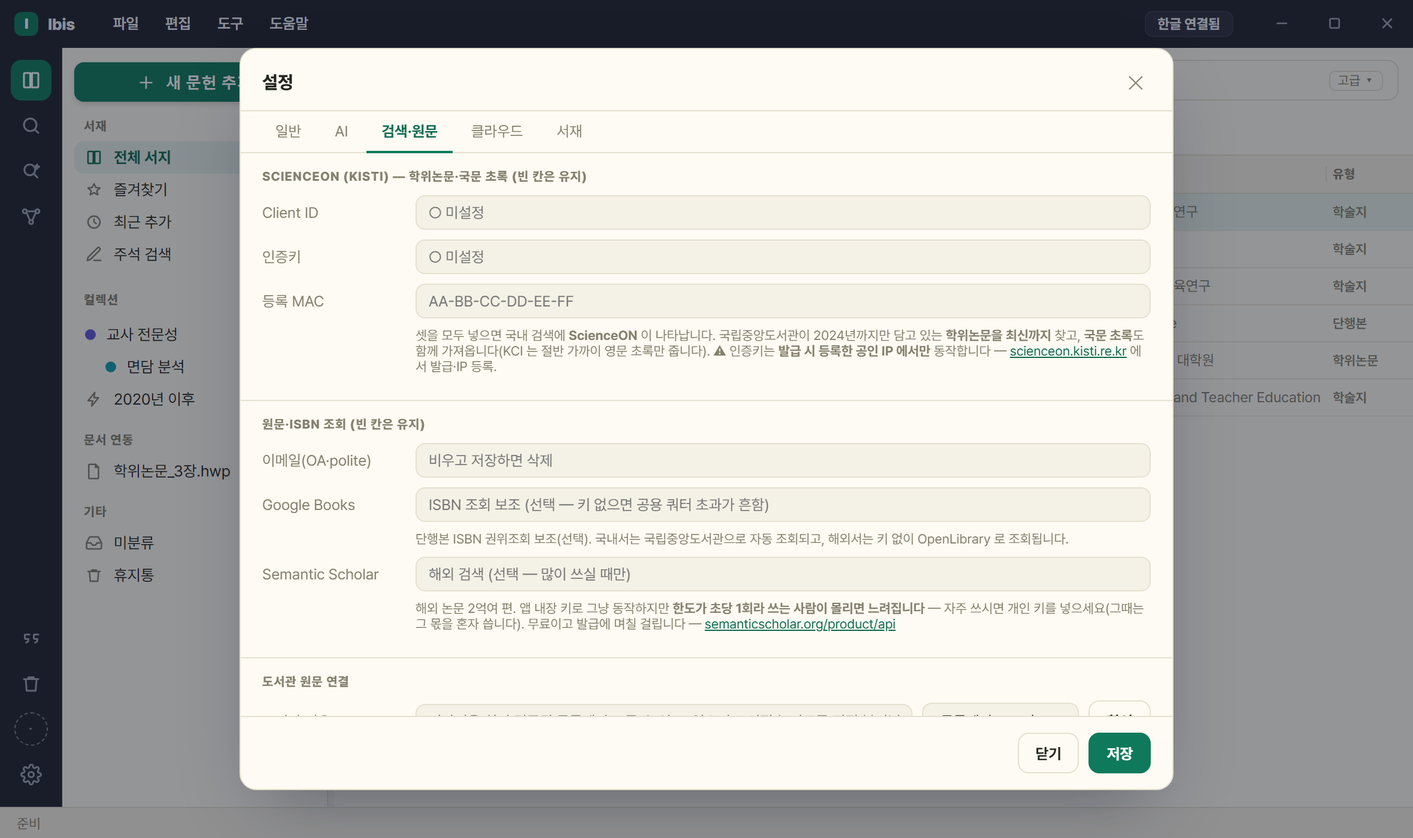
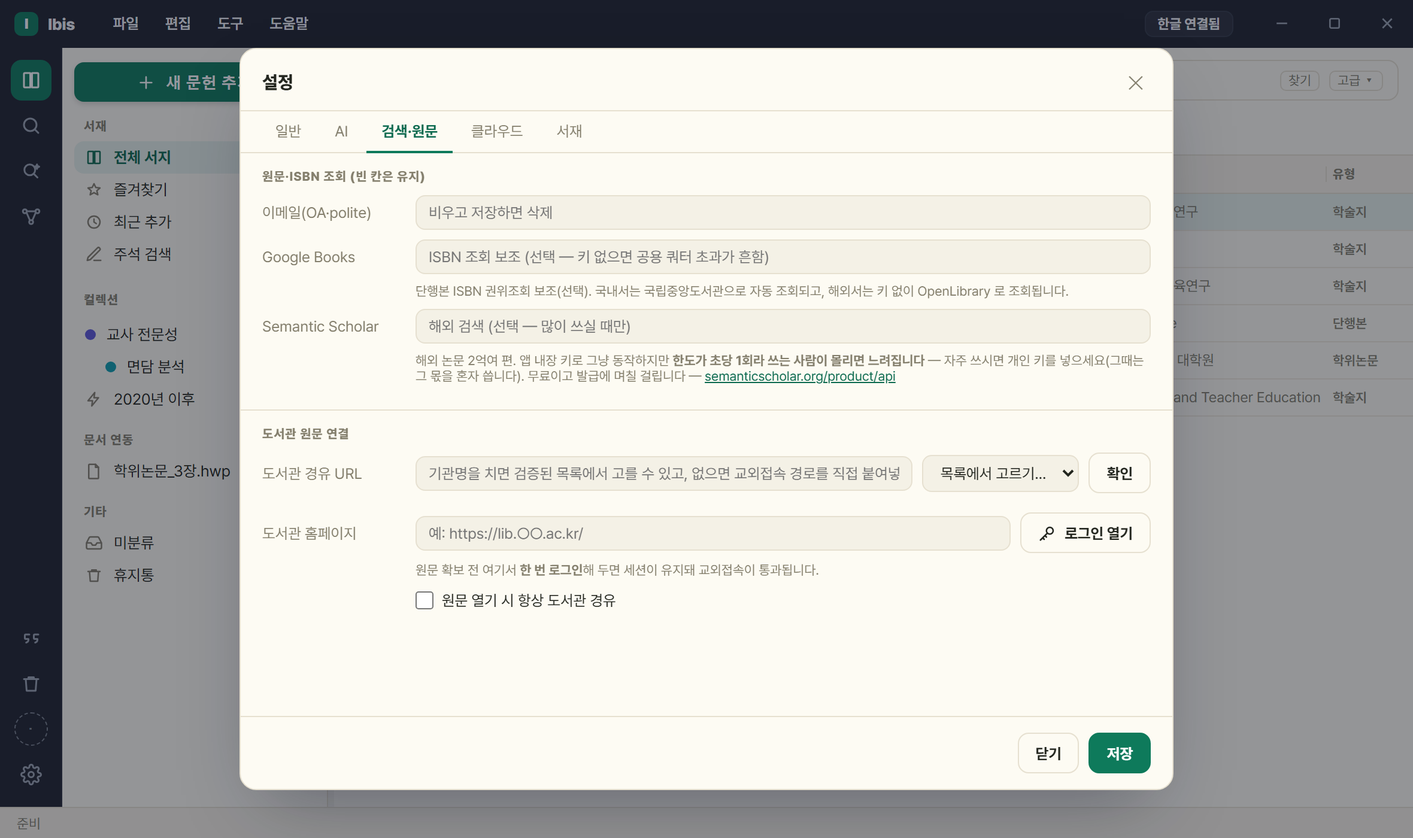
docs: 2026.9.11 반영(9.9·9.10·9.11 세 판) — 법·정책 검색 · 학술 DB 키 전면 내장 · AI 유형별 프로필
- **키를 전부 내장했습니다**(9.9) — ScienceON 인증키 세 값을 넣던 9.1 절·FAQ 항목·온보딩·설정 탭 표를 모두 고쳤다.
  "인증키는 등록 IP 에 묶인다" 는 실측으로 반증됐다. 남은 선택 칸은 이메일·Google Books·Semantic Scholar 셋.
- **법·정책 자료 검색**(9.9) — 체크 행 셋째 묶음(법령·판례·정책자료·법률안·회의록), 학술 DB 와 상호배타,
  칸 하나가 한 인용 갈래, 관련도순만. 3.2 소스 표에 두 행 추가 + FAQ 항목 신설. 고급검색 유형에 법령·조례.
- **DB 실패를 화면이 알림**(9.9) — 체크 행 ⚠ + 안내줄에 남는다(종전에는 상태줄에서 다음 동작에 덮였다).
- **질문으로 찾기**: '내 서재' 칸 복귀·기본 꺼짐(9.10) · **법·정책 다섯 갈래 제외**(9.11, 법률안이 상위 독식).
  두 찾기의 차이 서술을 "같은 자리·같은 방식, 목록은 다름" 으로 다시 씀.
- **AI 가 서지 유형을 봅니다**(9.11) — 8.1 에 프로필 6종 표(실증 논문·저술·보고서·법령·판례·회의록).
- FAQ 신설: 상세 버튼이 흐린 이유(9.10 판정) · 법령 원문 PDF 는 되고 판례·국회도서관은 안 되는 이유(9.11).
- 릴리스와 무관한 정정: 첫 FAQ 항목이 CWYW 로 타 제품과 비교하고 있던 것을 걷고, 남다른 자리(국내 DB 를
  앱 안에서 직접)를 첫 줄로 올렸다(2026-09-08 사용자 검토).
- 캡처 17장 재생성 — 체크 행의 법·정책 묶음, 질문 쪽 '내 서재' 칸, 설정에서 사라진 ScienceON 칸.

diff --git a/docs/USAGE.md b/docs/USAGE.md
@@ -1,6 +1,6 @@
 # Ibis 사용 설명서
 
-한국어로 연구하는 사람을 위한 **문헌 관리 앱**. **찾기 → 원문 확보 → 읽기·AI 분석 → 정리·태그 그래프 → 동료와 나누기** 까지 한 프로그램 안에서 합니다. 아래아한글·Word 본문 인용(CWYW)도 그중 한 기능입니다. 기준 버전 **2026.9.8**.
+한국어로 연구하는 사람을 위한 **문헌 관리 앱**. **찾기 → 원문 확보 → 읽기·AI 분석 → 정리·태그 그래프 → 동료와 나누기** 까지 한 프로그램 안에서 합니다. 아래아한글·Word 본문 인용(CWYW)도 그중 한 기능입니다. 기준 버전 **2026.9.11**.
 
 - 표기: `⚙설정` · `파일`·`편집`·`도구` 메뉴 · `새 문헌 추가` 는 화면의 실제 라벨입니다.
 - 좌측 세로 아이콘 줄 = **레일**, 상단의 '○○ 모드 · 문서명' = **상태 배지**.
@@ -121,7 +121,9 @@
 ![질문으로 찾기 — 문장으로 물으면 관련도 순위로 돌려준다](images/ask.png)
 
 1. 질의를 문장으로 적습니다 — 예: `국내 교육사회학 연구에서 교육불평등을 어떻게 다뤄 왔나`.
-2. 찾기 줄 아래 **체크 행**에서 어디서 찾을지 고릅니다: `전체` │ **국내**(KCI·ScienceON·국립중앙도서관) │ **국외**(OpenAlex·Crossref·ERIC·arXiv·PubMed). 행 오른쪽 끝에 **예상 크레딧**(`+2~7` 처럼)이 적힙니다.
+2. 찾기 줄 아래 **체크 행**에서 어디서 찾을지 고릅니다: `전체` │ **내 서재** │ **국내**(KCI·ScienceON·국립중앙도서관) │ **국외**(OpenAlex·Crossref·ERIC·arXiv·PubMed). 행 오른쪽 끝에 **예상 크레딧**(`+2~7` 처럼)이 적힙니다.
+   - **내 서재 칸은 기본이 꺼짐**입니다(2026.9.10) — 꺼져 있으면 DB 에서만 찾고, 그중 이미 담아 둔 것에는 **[보관됨]** 배지가 붙습니다. 켜면 서재 문헌도 후보로 순위에 함께 듭니다.
+   - **법·정책 다섯 갈래는 여기에 없습니다**(2026.9.11) — [3.2](#32-검색-소스) 의 키워드로 찾기에서만 씁니다. 법률안의 제안이유는 수백 자인데 회의록은 안건 한 줄이라 채점 재료의 길이가 달라 법률안이 상위를 독식했습니다. 그 문제를 풀기 전까지 뺐습니다.
 3. 진행이 단계로 보입니다 — `검색어 만들기 → DB에서 찾기 → 관련도 매기기 → 정리`(지금 단계가 점멸).
 
 - **검색어는 AI 가 만듭니다** — 국문·영문 조합을 한 번에 짭니다. 낱말을 뽑는 규칙으로 하면 국문 질의에서 엉뚱한 것이 걸립니다.
@@ -138,18 +140,22 @@
 
 > 낱말로 좁혀 찾는 것은 **키워드로 찾기**([3.2](#32-검색-소스))입니다. 질문으로 찾기는 *무엇을 찾아야 할지부터 넓게 훑을 때* 씁니다. 둘은 짝입니다 — **낱말로 찾으면 키워드로 찾기, 문장으로 물으면 질문으로 찾기**.
 >
-> 두 찾기는 **같은 자리(찾기 줄 아래)에서 같은 방식**으로 DB 를 고릅니다 — `전체 │ 국내 … │ 국외 …`, '국내'·'국외' 글자를 누르면 묶음이 통째로 켜지고 꺼지며 조합은 자유입니다. 다만 **목록과 기억은 다릅니다**: 키워드로 찾기는 9개(S2 포함)를 `localStorage` 에 기억하고 기본 꺼짐이 arXiv·PubMed·S2, 질문으로 찾기는 8개(**S2 없음** — 질의 라우팅이 그 DB 를 쓰지 않습니다)에 기억은 그 판 한정, 기본 꺼짐이 arXiv·PubMed 입니다. '내 서재' 칸은 양쪽 다 없습니다.
+> 두 찾기는 **같은 자리(찾기 줄 아래)에서 같은 방식**으로 DB 를 고릅니다 — 묶음 이름을 누르면 그 묶음이 통째로 켜지고 꺼지며 조합은 자유입니다. 다만 **목록은 다릅니다**: 키워드로 찾기에는 **법·정책 다섯 갈래**와 S2 가 있고, 질문으로 찾기에는 **내 서재** 칸이 있습니다(기본 꺼짐 — 켜면 서재 문헌도 순위에 함께 듭니다). 고른 조합은 키워드 쪽만 기억됩니다.
 
 ### 3.2 검색 소스
 
-레일 **두 번째 아이콘 [키워드로 찾기]** 입니다. 어디서 찾을지는 **찾기 줄 바로 아래 체크 행**에서 고릅니다 — `전체 │ 국내 KCI·ScienceON·국중도 │ 국외 OpenAlex·Crossref·ERIC·arXiv·PubMed·S2`(arXiv·PubMed·S2 는 주제 범위가 좁아 **기본 꺼짐**). **'국내'·'국외' 글자를 누르면 그 묶음이 통째로 켜지고 꺼지며**, 원하는 대로 섞어도 됩니다(KCI+ERIC 만 같은 조합도 가능). 고른 조합은 기억되고, 행 오른쪽 끝에 `○○에서 찾기` 라고 지금 조합이 적힙니다(고른 것이 없으면 'DB 를 하나 이상 고르세요').
+레일 **두 번째 아이콘 [키워드로 찾기]** 입니다. 어디서 찾을지는 **찾기 줄 바로 아래 체크 행**에서 고릅니다 — `전체 │ 국내 KCI·ScienceON·국중도 │ 국외 OpenAlex·Crossref·ERIC·arXiv·PubMed·S2 │ 법·정책 법령·판례·정책자료·법률안·회의록`(arXiv·PubMed·S2 와 법·정책 다섯은 **기본 꺼짐**). **'국내'·'국외' 글자를 누르면 그 묶음이 통째로 켜지고 꺼지며**, 원하는 대로 섞어도 됩니다(KCI+ERIC 만 같은 조합도 가능). 고른 조합은 기억되고, 행 오른쪽 끝에 `○○에서 찾기` 라고 지금 조합이 적힙니다(고른 것이 없으면 'DB 를 하나 이상 고르세요').
 
-소스는 **국내 3종 · 해외 6종** 이며, 둘 이상을 켜면 병렬로 질의한 뒤 중복을 합칩니다.
+소스는 **국내 3종 · 해외 6종 · 법·정책 5갈래** 이며, 둘 이상을 켜면 병렬로 질의한 뒤 중복을 합칩니다.
+
+> **법·정책을 켜면 학술 DB 는 함께 찾지 않습니다**(2026.9.9) — 법령 몇 건 사이에 논문 수백 건이 끼면 나눠 찾는 뜻이 없어지기 때문입니다. 학술을 켜면 법·정책이 꺼지고, 그 반대도 같습니다.
+> **법·정책은 칸 하나가 한 인용 갈래**입니다(기관 이름이 아니라 인용할 때 부르는 이름). 담으면 바로 참고문헌 서식이 나옵니다 — `교육부 (2026). 초ㆍ중등교육법. 법률, 제21659호(시행 2026. 8. 20.).`
+> **관련도순만 고를 수 있습니다** — 두 API 다 정렬 인자를 받지 않아, 다른 축을 내놓으면 '정렬했는데 안 바뀐다' 가 됩니다.
 
 | 묶음 | 소스 | 커버리지 | 키 |
 |---|---|---|---|
 | 국내 | **KCI** | 국내 학술논문 | **불필요(앱 내장)** |
-| 국내 | **ScienceON** | 국내 학술·학위논문(KISTI) | 필요(3개 값·선택) |
+| 국내 | **ScienceON** | 국내 학술·학위논문(KISTI) | **불필요(앱 내장)** |
 | 국내 | **국립중앙도서관** | 학위논문·도서·연속간행물·웹자료 등 국내 발행물 | **불필요(앱 내장)** |
 | 해외 | OpenAlex | 국제+국내 상당수 | 불필요 |
 | 해외 | Crossref | 국제+국내 상당수 | 불필요 |
@@ -157,10 +163,13 @@
 | 해외 | arXiv | 프리프린트 | 불필요 |
 | 해외 | Semantic Scholar(S2) | CS·융합 | 불필요 |
 | 해외 | **PubMed** (2026.9.5) | 의학·보건·간호(미국 국립의학도서관) — 초록·MeSH 주제어 포함, 총건수 표시. 주제 범위가 좁아 **해외 통합·질문으로 찾기에서는 기본 꺼짐** | 불필요 |
-| — | 내 서지 | 보관한 문헌 — 체크 항목이 아닙니다(2026.9.7~9.8 에 두 찾기 모두에서 빠졌습니다). 내 문헌은 **서재 모드의 찾기 줄**에서 찾고([3.8](#38-내-서지-전문검색fts)), 찾은 결과가 이미 서재에 있으면 행에 **'보관됨'** 배지가 붙습니다 | — |
+| 법·정책 | **법령** · **판례** | 법제처 국가법령정보 — 현행법령·자치법규, 대법원·하급심 판례 | **불필요(앱 내장)** |
+| 법·정책 | **정책자료** · **법률안** · **회의록** | 국회도서관 — 공공기관 정책자료(회색문헌), 국회 의안, 국회 회의록 | **불필요(앱 내장)** |
+| — | 내 서지 | 보관한 문헌 — 키워드로 찾기의 체크 항목은 아닙니다. **서재 모드의 찾기 줄**에서 찾고([3.8](#38-내-서지-전문검색fts)), 질문으로 찾기에는 '내 서재' 칸이 있습니다([3.1](#31-질문으로-찾기-202691)). 찾은 결과가 이미 서재에 있으면 행에 **'보관됨'** 배지가 붙습니다 | — |
 
 - **KCI 와 국립중앙도서관은 앱 내장 키로 동작합니다** — 사용자가 발급받을 것이 없고 설정에 입력 칸도 없으며, 설치 직후부터 소스 목록에 보입니다.
-- **ScienceON 만** 사용자 발급 키(Client ID·인증키·등록 MAC)가 필요합니다([9.1](#91-api-키이메일-발급)). 없어도 나머지 소스로 앱은 온전히 동작합니다.
+- **모든 학술 DB 와 법·정책이 앱 내장 키로 동작합니다**(2026.9.9) — **발급받을 것이 하나도 없습니다.** ScienceON 인증키 세 값을 넣던 칸도 없앴습니다. 오래 적혀 있던 "인증키는 발급받은 공인 IP 에 묶인다" 는 실측으로 반증됐습니다(등록 IP 가 아닌 두 망에서 정상 동작).
+- **DB 가 실패하면 화면이 말합니다**(2026.9.9) — 체크 행의 그 칸에 **⚠** 가 붙고(툴팁에 사유), 안내줄에 "이 DB 의 결과는 빠져 있습니다. 0건이어도 자료가 없다는 뜻이 아닙니다" 가 **남습니다**. 종전에는 상태줄에 한 번 스치고 다음 동작에 덮여, 한 소스가 죽어도 나머지 행이 그려지니 화면은 정상으로 보였습니다. 경고는 그 DB 를 다시 불러 성공했을 때만 지워지고, 체크를 자동으로 끄지는 않습니다.
 - 학술논문은 KCI 가, 그 밖의 국내 발행물은 국립중앙도서관이 맡습니다. 유형을 지정하지 않은 국립중앙도서관 검색은 소장자료 네 갈래를 병렬로 훑습니다.
 - RISS 는 검색 소스가 아니라 **원문 확보 경로 전용**입니다([7절](#7-원문-확보pdf-뷰어)).
 - 찾기: **체크 행에서 DB 고르기 → 낱말 입력 → Enter** → 페이지당 20건. 체크를 바꾸면 목록이 새 조합으로 바뀌고, 실제 검색은 Enter 로 합니다(질문으로 찾기와 같은 결).
@@ -224,7 +233,7 @@ DOI 가 논문의 권위 키라면 단행본은 **ISBN** 입니다. 학술 DB(KC
 
 **전역 한정자**(행이 아니라 질의 전체에 걸립니다)
 
-- **유형(공통)** · 정렬 · 발행년 범위. (어느 DB 에서 찾을지는 고급 검색 안이 아니라 **검색줄 아래 체크 행**입니다.)
+- **유형(공통)** · 정렬 · 발행년 범위. 유형에 **법령·조례**가 있습니다(2026.9.9 — 담기고 인용도 되는데 고를 수가 없었습니다). (어느 DB 에서 찾을지는 고급 검색 안이 아니라 **찾기 줄 아래 체크 행**입니다.)
 - 유형 값: 전체 · 학술논문 · 학위논문 · 단행본 · 보고서 · 연속간행물 · 웹자료 · 비도서(소스마다 고를 수 있는 값이 다릅니다).
 - `자료구분`(국립중앙도서관 전용)은 서버로 그대로 보내는 **자료 종별 13종**(일반도서·학위논문·정부간행물·공공간행물·아동도서·교과서·학습참고서·한장본·점자도서·장애인대체자료·비도서·연속간행물·온라인자료)이며 '유형(공통)' 과는 다릅니다.
 - ⚠ **'단행본'·'보고서' 유형은 그 갈래의 일부만 찾습니다** — 국립중앙도서관 자료구분은 한 번에 하나만 보낼 수 있어 대표 코드 하나로 묻습니다(단행본=일반도서만, 보고서=정부간행물만). 앱이 이 사실을 결과줄에 매번 밝힙니다.
@@ -788,7 +797,20 @@ Ibis 없이 쓰던 원고에도 쓸 수 있습니다. 본문의 `(홍길동, 202
 
 ### 8.1 AI 문헌 요약
 
-첨부 PDF 본문을 읽어 한국어 요약(연구질문·방법·핵심결과·시사점/한계) + 태그 + 키워드를 생성합니다.
+첨부 PDF 본문을 읽어 한국어 요약 + 태그 + 키워드를 생성합니다.
+
+**무엇을 뽑을지는 서지 유형에 따라 다릅니다 (2026.9.11)** — 종전에는 셋 다 실증 학술논문 하나만 전제해, 법령 PDF 에 표본 수를 묻고 판결에 방법론 타당성을 물었습니다. 이제 여섯 갈래로 갈립니다.
+
+| 유형 | 뽑는 것 |
+|---|---|
+| 실증 논문 | 연구질문·방법·핵심결과·시사점/한계 (종전 그대로) |
+| 저술·논설 | 핵심 주장·논증 구조·반론 |
+| 정책·연구 보고서 | 정책 문제·근거 자료·제안·이해관계 |
+| 법령·법률안 | 목적·적용 대상·주요 조문·부칙 — 근거는 **조문 번호**로 |
+| 판례·해석례 | 사실관계·쟁점·판단·법리 (비판적 검토는 평석 관점) |
+| 회의록 | 안건·발언·쟁점·결정 |
+
+상세 패널의 AI 버튼에 마우스를 올리면 **그 문헌에서 무엇을 뽑을지** 미리 말합니다('AI 법령 노트 — 목적·적용 대상·주요 조문·개정 연혁'). 태그를 뽑는 면도 유형마다 다릅니다(법령은 규율 주제·대상·기관).
 
 ![AI 리서치 노트](images/ai-note.png)
 
@@ -879,7 +901,7 @@ Ibis 없이 쓰던 원고에도 쓸 수 있습니다. 본문의 `(홍길동, 202
 |---|---|
 | **일반** | 문서 연결([2절](#2-한글word-문서-연결)) · 인용 스타일([5절](#5-참고문헌인용-스타일)) · 표시(테마·글꼴·항상 위 — [9.7](#97-테마--글꼴--항상-위-고정)) |
 | **AI** | 제공자·모델·추론 강도·폴백 + **일괄 작업 동시 실행**([8.4](#84-ai-제공자모델폴백)) |
-| **검색·원문** | ScienceON 인증키·이메일([9.1](#91-api-키이메일-발급)) · 도서관 원문([9.4](#94-도서관-교외접속프록시-경유-설정)) |
+| **검색·원문** | 이메일·선택 키([9.1](#91-api-키이메일-발급)) · 도서관 원문([9.4](#94-도서관-교외접속프록시-경유-설정)) |
 | **클라우드** | 구글 로그인 · 공유 중인 컬렉션 목록 · 서버 사용량([6.10](#610-컬렉션-공유)) |
 | **서재** | 서재 위치·백업·업데이트 확인([9.6](#96-서재-위치클라우드-폴더-동기화)) |
 
@@ -889,27 +911,26 @@ Ibis 없이 쓰던 원고에도 쓸 수 있습니다. 본문의 `(홍길동, 202
 
 ### 9.1 API 키·이메일 발급
 
-*(⚙설정 › 검색·원문 탭. **KCI·국립중앙도서관은 앱 내장 키로 동작해 입력 칸이 없습니다** — 아래가 남은 전부입니다.)*
+*(⚙설정 › 검색·원문 탭. **학술 DB 와 법·정책은 모두 앱 내장 키로 동작해 입력 칸이 없습니다**(2026.9.9) — 아래가 남은 전부이고, 셋 다 **선택**입니다.)*
 
-![설정 — 검색·원문 탭(학술 DB 키·ISBN 조회·도서관 경유)](images/settings-api.png)
+![설정 — 검색·원문 탭(이메일·선택 키·도서관 경유)](images/settings-api.png)
 
 | 항목 | 발급처 · 절차 | 입력 칸 | 문의 |
 |---|---|---|---|
-| **ScienceON** | `scienceon.kisti.re.kr` 로그인 → 인증키 발급 신청 → **Client ID·인증키·등록 MAC 3개** | `Client ID` · `인증키` · `등록 MAC` | helpdesk@kisti.re.kr · 080-969-4114 |
+| **Semantic Scholar** | 발급 선택 — `semanticscholar.org/product/api` (무료, 며칠 걸림) | `Semantic Scholar` | — |
 | **이메일(OA·polite)** | 발급 아님. 본인 이메일(Unpaywall + Crossref/OpenAlex polite pool) | `이메일(OA·polite)` | — |
 | **Google Books** | 발급 선택 — Google Cloud 콘솔의 Books API 키(단행본 ISBN 조회 보조) | `Google Books` | — |
 | **도서관 원문 연결** | 발급 아님. 기관 프록시·도서관 홈 주소([9.4](#94-도서관-교외접속프록시-경유-설정)) | `도서관 경유 URL` · `도서관 홈페이지` + `로그인 열기` · 체크박스 `원문 열기 시 항상 도서관 경유` | — |
 
-- **ScienceON** — **세 값이 모두** 있어야 동작(등록 MAC 하나만 빠져도 검색 불가). MAC 형식은 `AA-BB-CC-DD-EE-FF`.
-- ⚠ **ScienceON 은 발급 시 등록한 공인 IP 에서만** 동작합니다. 넣지 않아도 앱은 온전히 동작합니다.
+- **Semantic Scholar** — 내장 키로 그냥 동작하지만 그 몫은 **초당 1회를 여럿이 나눠 씁니다**. 자주 쓰면 개인 키를 넣으세요(그때는 그 몫을 혼자 씁니다).
 - **이메일 칸은 예외** — 비우고 저장하면 삭제됩니다. Unpaywall·Crossref 두 값에 같은 주소가 저장됩니다.
 - **Google Books** — 단행본 **ISBN 조회** 보조용(선택, [3.4](#35-isbn으로-단행본-추가)). 키 없이 쓰면 공용 쿼터 초과가 흔해 보조로만 씁니다. ISBN 권위조회 자체는 내장 키로 국립중앙도서관을 씁니다.
-- **키를 하나도 넣지 않아도** KCI·국립중앙도서관·Crossref·OpenAlex·S2·arXiv·ERIC 로 검색됩니다.
+- **키를 하나도 넣지 않아도** 학술 DB 9종과 법·정책 5갈래가 전부 동작합니다. 위 세 칸은 있으면 나은 것이지 없으면 막히는 것이 아닙니다.
 
 ### 9.2 저장된 키 삭제 — '지움'
 
 1. 설정된 키는 `● 설정됨` 으로 표시되고 옆에 **'지움'** 버튼이 나타납니다.
-2. '지움' → **'저장'** → 실제 삭제됩니다. ScienceON 키를 지우면 그 소스가 드롭다운에서 사라집니다(KCI·국립중앙도서관은 내장 키라 그대로 남습니다).
+2. '지움' → **'저장'** → 실제 삭제됩니다. 지워도 검색은 그대로입니다 — 위 세 칸은 전부 선택이고, 학술 DB·법·정책은 내장 키로 동작합니다.
 
 - 환경변수(`SCIENCEON_*`·`UNPAYWALL_EMAIL` 등)로 설정된 값은 외부 구성이라 UI 에서 지워지지 않습니다.
 
@@ -1002,7 +1023,7 @@ Ibis 없이 쓰던 원고에도 쓸 수 있습니다. 본문의 `(홍길동, 202
 
 ### 9.8 온보딩을 건너뛰었다면
 
-- 모든 항목(서재 위치·이메일·AI, 그리고 온보딩에 없는 ScienceON·도서관 경유)은 `⚙설정` 에서 언제든 변경 가능.
+- 모든 항목(서재 위치·이메일·AI, 그리고 온보딩에 없는 도서관 경유)은 `⚙설정` 에서 언제든 변경 가능.
 - 이미 데이터가 있으면 온보딩 창은 다시 뜨지 않습니다.
 
 ### 9.9 도움말 › Ibis 정보 — 버전·저작권·라이선스

diff --git a/docs/FAQ.md b/docs/FAQ.md
@@ -1,10 +1,10 @@
 # Ibis FAQ
 
-한국 연구자를 위한 서지·인용 관리 앱 **Ibis** 자주 묻는 질문. 기준 버전 **2026.9.8**.
+한국 연구자를 위한 서지·인용 관리 앱 **Ibis** 자주 묻는 질문. 기준 버전 **2026.9.11**.
 
 - **국내 학술 검색 → 원문 확보 → AI 분석 → 태그 그래프**까지 한 프로그램에서 끝냅니다.
 - 한글(HWP)·Word 본문 인용 삽입(CWYW)도 그중 한 기능입니다.
-- 검색·서지 관리·인용 삽입은 **설정 없이 바로** 됩니다. ScienceON·AI 만 선택 설정.
+- 검색·서지 관리·인용 삽입은 **설정 없이 바로** 됩니다. 발급받을 API 키가 하나도 없습니다(2026.9.9) — AI 만 선택 설정.
 
 ## 목차
 
@@ -23,10 +23,10 @@
 
 **Q. Ibis 는 다른 서지 관리 도구와 뭐가 다른가요?**
 
-- **국내 학술 DB 를 1급으로 지원** — KCI·ScienceON·국립중앙도서관 검색, 국문/영문 병기 보강.
+- **국내 학술 DB 를 앱 안에서 직접 찾습니다** — KCI·ScienceON·국립중앙도서관을 내보내기 파일을 거치지 않고 바로. 국문/영문 병기도 보강합니다.
 - **원문 확보까지 앱 안에서** — 무료 OA 폭포수 자동 확보, 구독 DB 는 도서관 교외접속 경유로 연결, 학위논문은 RISS→dCollection 자동 추적.
 - **읽고 분석하는 것까지** — 인앱 PDF 뷰어·주석, AI 리서치 노트·비판적 검토, 태그 그래프 뷰.
-- **한글(HWP) 본문 인용** — EndNote·Zotero·Mendeley 에 없는 기능. 다만 여러 기능 중 하나.
+- **아래아한글(HWP) 본문 인용** — 여러 기능 중 하나입니다. 한글이나 Word 를 쓰지 않아도 나머지는 그대로 씁니다.
 - 데이터는 **로컬 우선**이고 CSL-JSON 으로 열려 있어 특정 DB 에 묶이지 않습니다.
 
 **Q. 설치본(setup.exe)과 zip 중 뭘 받나요?**
@@ -73,9 +73,8 @@
 **Q. API 키 없이 쓸 수 있나요?**
 
 - 됩니다. 검색·인용 삽입·서지 관리 모두 키 불필요.
-- **무키 소스**: KCI · 국립중앙도서관 · Crossref · OpenAlex · Semantic Scholar · arXiv · ERIC — 8종 중 7종.
-- **키 필요**: ScienceON 하나뿐입니다.
-- KCI·국립중앙도서관은 **앱 내장 키**로 동작해 ⚙설정에 입력 칸 자체가 없습니다.
+- **발급받을 키가 하나도 없습니다**(2026.9.9) — 학술 DB 9종(KCI·ScienceON·국립중앙도서관·OpenAlex·Crossref·ERIC·arXiv·PubMed·S2)과 법·정책 5갈래(법제처·국회도서관)가 전부 **앱 내장 키**로 동작하고 ⚙설정에 입력 칸이 없습니다.
+- 선택 칸 셋만 남았습니다 — 이메일(OA·polite) · Google Books · Semantic Scholar 개인 키. 없어도 다 됩니다.
 
 **Q. 데이터와 API 키는 어디에 저장되나요? 클라우드에 올라가나요?**
 
@@ -226,7 +225,9 @@
 **Q. 무엇을 찾아야 할지부터 막막할 때는요? (2026.9.1)**
 
 - 레일 **세 번째 아이콘 [질문으로 찾기]** — 낱말이 아니라 **연구 질의를 문장으로** 던지면 국내외 DB 와 내 서재를 한 번에 뒤져 **관련도 순위**로 보여 줍니다.
-- 찾기 줄 아래 **체크 행**에서 어디서 찾을지 고릅니다: `전체` │ 국내(KCI·ScienceON·국립중앙도서관) │ 국외(OpenAlex·Crossref·ERIC·arXiv·PubMed). 행 오른쪽 끝에 예상 크레딧이 적힙니다.
+- 찾기 줄 아래 **체크 행**에서 어디서 찾을지 고릅니다: `전체` │ **내 서재** │ 국내(KCI·ScienceON·국립중앙도서관) │ 국외(OpenAlex·Crossref·ERIC·arXiv·PubMed). 행 오른쪽 끝에 예상 크레딧이 적힙니다.
+- **내 서재 칸은 기본 꺼짐**(2026.9.10) — 꺼져 있으면 DB 에서만 찾고 이미 담은 것에는 [보관됨] 배지가 붙습니다. 켜면 서재 문헌도 순위에 함께 듭니다.
+- **법·정책 다섯 갈래는 여기 없습니다**(2026.9.11) — 키워드로 찾기에서만 씁니다.
 - 결과는 **키워드로 찾기와 같은 표**에 나옵니다(2026.9.8) — 맨 왼쪽 관련도 칸(순위·막대·점수)만 질문으로 찾기에서 더 보입니다.
 - **검색어는 AI 가 국문·영문 조합으로 만들고**, 모은 것(통상 200여 건)을 **전부 채점**해 100여 편을 보여 줍니다.
 - 국립중앙도서관 **단행본도 순위에 오릅니다** — 책소개가 없으면 카카오 책·알라딘에서 입혀 채점합니다.
@@ -244,15 +245,16 @@
 
 **Q. 두 찾기의 DB 목록이 서로 다릅니다.**
 
-- 맞습니다. 두 찾기는 **같은 자리(찾기 줄 아래)에서 같은 방식**으로 DB 를 고릅니다 — `전체 │ 국내 … │ 국외 …`, '국내'·'국외' 글자를 누르면 묶음이 통째로 켜지고 꺼지며 조합은 자유입니다. 다만 **목록과 기억은 다릅니다**: 키워드로 찾기는 9개(S2 포함)를 `localStorage` 에 기억하고 기본 꺼짐이 arXiv·PubMed·S2, 질문으로 찾기는 8개(**S2 없음** — 질의 라우팅이 그 DB 를 쓰지 않습니다)에 기억은 그 판 한정, 기본 꺼짐이 arXiv·PubMed 입니다. '내 서재' 칸은 양쪽 다 없습니다.
+- 맞습니다. 두 찾기는 **같은 자리(찾기 줄 아래)에서 같은 방식**으로 DB 를 고릅니다 — 묶음 이름을 누르면 그 묶음이 통째로 켜지고 꺼지며 조합은 자유입니다. 다만 **목록은 다릅니다**: 키워드로 찾기에는 **법·정책 다섯 갈래**와 S2 가 있고, 질문으로 찾기에는 **내 서재** 칸이 있습니다(기본 꺼짐 — 켜면 서재 문헌도 순위에 함께 듭니다). 고른 조합은 키워드 쪽만 기억됩니다.
 
 **Q. 어떤 검색 소스를 쓸 수 있나요?**
 
-- **9종** — 국내: KCI · ScienceON · 국립중앙도서관 / 해외: OpenAlex · Crossref · ERIC · arXiv · Semantic Scholar · **PubMed**(2026.9.5).
+- 학술 **9종** — 국내: KCI · ScienceON · 국립중앙도서관 / 해외: OpenAlex · Crossref · ERIC · arXiv · Semantic Scholar · **PubMed**(2026.9.5).
+- 여기에 **법·정책 5갈래**(2026.9.9) — 법령 · 판례 · 정책자료 · 법률안 · 회의록. 위 「법령·판례·정책자료도 찾을 수 있나요」 참고.
 - PubMed 는 미국 국립의학도서관의 의학·보건·간호 DB(초록·MeSH 주제어 포함). 주제 범위가 좁아 **arXiv 처럼 기본 꺼짐**이고 필요할 때 켭니다(S2 도 키워드로 찾기에서 기본 꺼짐).
 - 어디서 찾을지는 **검색줄 아래 체크 행**에서 고릅니다(2026.9.7) — `전체 │ 국내 │ 국외`. '국내'·'국외' 글자를 누르면 묶음이 통째로 켜지고, 원하는 대로 섞어도 됩니다. 둘 이상이면 병렬 질의 후 중복 병합하고, 고른 조합은 기억됩니다.
 - ERIC 은 미국 교육부 IES 가 운영하는 교육학 DB(저널논문·문서/보고서), 키 불필요.
-- ScienceON 을 뺀 8종은 설치 직후부터 바로 보입니다.
+- **전부 설치 직후부터 바로 보입니다** — 발급받을 키가 없습니다(2026.9.9).
 
 **Q. 국립중앙도서관은 어떤 자료를 찾나요?**
 
@@ -261,12 +263,13 @@
 - 학위논문은 **최신까지** 나옵니다(소장자료 색인 기반). 정렬을 안 골라도 최신부터 보여 줍니다.
 - ⚠ **'단행본'·'보고서' 유형은 그 갈래의 일부만** 찾습니다 — 자료구분을 한 번에 하나만 보낼 수 있어 단행본=일반도서만, 보고서=정부간행물만 조회됩니다(아동도서·교과서·공공간행물 등은 빠짐). 앱이 결과줄에 매번 밝힙니다.
 
-**Q. ScienceON 이 DB 목록에 안 보여요.**
+**Q. 법령·판례·정책자료도 찾을 수 있나요? (2026.9.9)**
 
-- ScienceON 만 사용자 인증키가 필요해, 설정돼 있을 때만 표시됩니다.
-- scienceon.kisti.re.kr › 인증키 발급 신청 → **Client ID·인증키·등록 MAC 3개 모두** 입력(하나라도 빠지면 비활성). (helpdesk@kisti.re.kr · 080-969-4114)
-- ⚠ 발급 시 **등록한 공인 IP 에서만** 동작합니다 — 다른 네트워크로 옮기면 실패합니다.
-- 없어도 앱은 온전합니다. KCI·국립중앙도서관을 포함한 나머지 7종은 키 없이 됩니다.
+- 네. 체크 행의 **셋째 묶음 [법·정책]** 입니다 — **법령 · 판례**(법제처 국가법령정보)와 **정책자료 · 법률안 · 회의록**(국회도서관) 다섯 갈래. 설정할 것은 없습니다.
+- 칸 하나가 **한 인용 갈래**라 담으면 바로 참고문헌 서식이 나옵니다 — `교육부 (2026). 초ㆍ중등교육법. 법률, 제21659호(시행 2026. 8. 20.).`
+- **법·정책을 켜면 학술 DB 는 함께 찾지 않습니다** — 법령 몇 건 사이에 논문 수백 건이 끼면 나눠 찾는 뜻이 없어지기 때문입니다.
+- 정렬은 **관련도순 하나**뿐입니다(두 API 다 정렬 인자를 받지 않습니다).
+- **질문으로 찾기에서는 쓰지 않습니다**(2026.9.11) — 법률안의 제안이유는 수백 자인데 회의록은 안건 한 줄이라 채점 재료의 길이가 달라 법률안이 상위를 독식했습니다. 그 문제를 풀기 전까지 키워드로 찾기에서만 씁니다.
 
 **Q. 사람 이름으로 검색했는데 0건이 나와요.**
 
@@ -728,6 +731,18 @@
 - 2026.9.6 에서 고쳤습니다 — 제목줄 끌기를 Windows 의 이동 루프에 맡겨 끌기당 한 번만 앱을 거칩니다(Aero 스냅도 됩니다). 종전에는 마우스 이벤트마다 앱을 왕복했습니다.
 - 첫 PDF 본문 색인이 도는 동안은 여전히 조금 굼뜰 수 있습니다 — 상태줄의 `n/전체` 가 끝나면 풀립니다.
 
+**Q. 상세 패널의 버튼이 흐리게 눌리지 않습니다. (2026.9.10)**
+
+- 그 문헌에서 **되지 않는 것**이라 일부러 잠근 것입니다. 마우스를 올리면 **왜 안 되는지와 대신 할 수 있는 것**을 말합니다.
+- 자주 보는 경우 — AI 리서치 노트·비판적 검토는 **첨부 PDF 가 있어야** 합니다(초록만으로는 안 됩니다) · 서지정보 AI 채우기는 DOI 나 PDF 가 있어야 합니다(DOI 가 있거나 학위논문이면 AI 설정과 무관하게 켜집니다 — 그 경로는 KCI·Crossref 로 채웁니다) · 원문 확보는 이미 PDF 가 붙었거나 웹·신문기사면 꺼집니다 · 서재에 담기 전 검색 결과와 휴지통 문헌은 잠깁니다.
+- 행 우클릭 메뉴도 같은 판정을 씁니다.
+
+**Q. 법령·판례의 원문 PDF 도 받아지나요? (2026.9.11)**
+
+- **법령은 됩니다** — [원문 확보]가 법제처에서 **전문 PDF** 를 받아 첨부합니다(초·중등교육법이면 31쪽). 로그인도 키도 필요 없습니다.
+- **판례는 앱이 대신 받지 못합니다** — 저장 화면이 세션 안에서만 동작합니다. 대신 **[원문 페이지 열기]** 가 켜지고, 그 화면의 [저장]으로 직접 받으시면 됩니다.
+- **정책자료·법률안·회의록**(국회도서관)은 [다운로드]가 로그인을 요구해 앱이 대신 받지 않습니다. 직접 받은 PDF 를 **첨부(＋)** 로 넣으면 됩니다.
+
 **Q. 테마는 몇 가지인가요?**
 
 - **16종** — 자체 제작 4종(Slate·Ivory·Bright·Graphite) + 다크 8종(Dark Modern·One Dark Pro·Dracula·Nord·Monokai·Tokyo Night·Solarized Dark·GitHub Dark) + 라이트 4종(Solarized Light·GitHub Light·Quiet Light·Ayu Light).
@@ -744,10 +759,10 @@
 
 - 그 패널이 **접히고/펴집니다** — 목록을 넓게 볼 때 사용(그래프 모드에서는 그래프 패널).
 
-**Q. ScienceON 키를 지우려는데 칸을 비워도 안 지워져요.**
+**Q. 설정한 키를 지우려는데 칸을 비워도 안 지워져요.**
 
 - 키 칸은 '빈 칸은 유지' 규칙입니다.
-- 설정된 키 옆의 **'지움' 버튼 → 저장** 으로 삭제(ScienceON 이 검색 목록에서 사라짐).
+- 설정된 키 옆의 **'지움' 버튼 → 저장** 으로 삭제. 지워도 검색은 그대로입니다 — 남은 칸은 전부 선택입니다.
 - 환경변수로 넣은 키는 UI 에서 지워지지 않습니다.
 - 이메일 칸은 예외 — 비우고 저장하면 삭제됩니다.
 - KCI·국립중앙도서관은 입력 칸이 없어 지울 것도 없습니다. `secrets.json` 에 예전에 넣어 둔 `kci_api_key`·`nl_seoji_key` 는 **이제 쓰이지 않으니** 그대로 두어도 무해합니다.
@@ -797,7 +812,7 @@
 
 **Q. 온보딩을 건너뛰었어요.**
 
-- 모든 항목(서재 위치·이메일·ScienceON·도서관 경유·AI)은 ⚙설정에서 언제든 변경 가능.
+- 모든 항목(서재 위치·이메일·도서관 경유·AI)은 ⚙설정에서 언제든 변경 가능.
 - 이미 데이터가 있으면 온보딩 창은 다시 뜨지 않습니다.
 
 **Q. 버전·라이선스·저작권은 어디서 확인하나요?**

diff --git a/README.md b/README.md
@@ -60,7 +60,8 @@
 - **[최근 질의]** 에서 누르면 치른 결과가 **크레딧 0** 으로 되살아납니다
 
 **수집**
-- 국내 **KCI · 국립중앙도서관 · ScienceON**, 해외 **OpenAlex · Crossref · ERIC · arXiv · Semantic Scholar · PubMed**(2026.9.5)
+- 국내 **KCI · 국립중앙도서관 · ScienceON**, 해외 **OpenAlex · Crossref · ERIC · arXiv · Semantic Scholar · PubMed**
+- **법·정책 자료**(2026.9.9): **법령 · 판례**(법제처)와 **정책자료 · 법률안 · 회의록**(국회도서관) — 칸 하나가 한 인용 갈래라 담으면 바로 참고문헌 서식이 나옵니다. **발급받을 API 키는 하나도 없습니다**
   — 검색줄 아래 체크 행에서 **찾을 DB 를 골라**(국내·국외를 통째로 켜거나 원하는 대로 섞어) 병렬 질의 후 중복을 합칩니다. KCI·국립중앙도서관은 **설치 직후부터 바로** 쓰입니다
 - 「그리고」·「또는」 으로 조건을 엮는 **다중 조건 고급검색**(소스별 전용 필드 지원, 적용 안 된 조건은 이유를 표시)
 - DOI 붙여넣기 즉시 서지화 · 6개 형식 가져오기(RIS·BibTeX·CSL-JSON·EndNote(.enw)·RefWorks·Tab) · 내보내기(CSL-JSON·BibTeX)
@@ -76,7 +77,7 @@
 - 복수 선택(드래그·Ctrl·Shift) + 우클릭 일괄 작업 + 드래그앤드롭 분류
 
 **연구 도우미**
-- **AI 논문 요약**: 첨부 PDF·초록을 읽어 요약·분류 태그·논문 키워드를 자동 저장합니다.
+- **AI 논문 요약**: 첨부 PDF·초록을 읽어 요약·분류 태그·키워드를 자동 저장합니다. **서지 유형을 보고 무엇을 뽑을지 바꿉니다**(2026.9.11 — 실증 논문·저술·보고서·법령·판례·회의록 여섯 갈래).
   **키도 CLI 도 없이 Ibis AI 크레딧으로 바로** 쓰거나(구글 로그인만, 베타 기간 무료), 내 구독(Claude Code·Antigravity CLI)·내 API 키(Anthropic·OpenAI·Gemini)를 쓸 수 있습니다.
   크레딧은 **글자 수 기준 종량제**라 실행 전에 **예상 크레딧을 먼저 보여 주고** 동의를 받습니다(2026.9.2).
   **스캔본(이미지) PDF 도 읽습니다**(2026.9.2 — Windows 내장 글자 인식).
